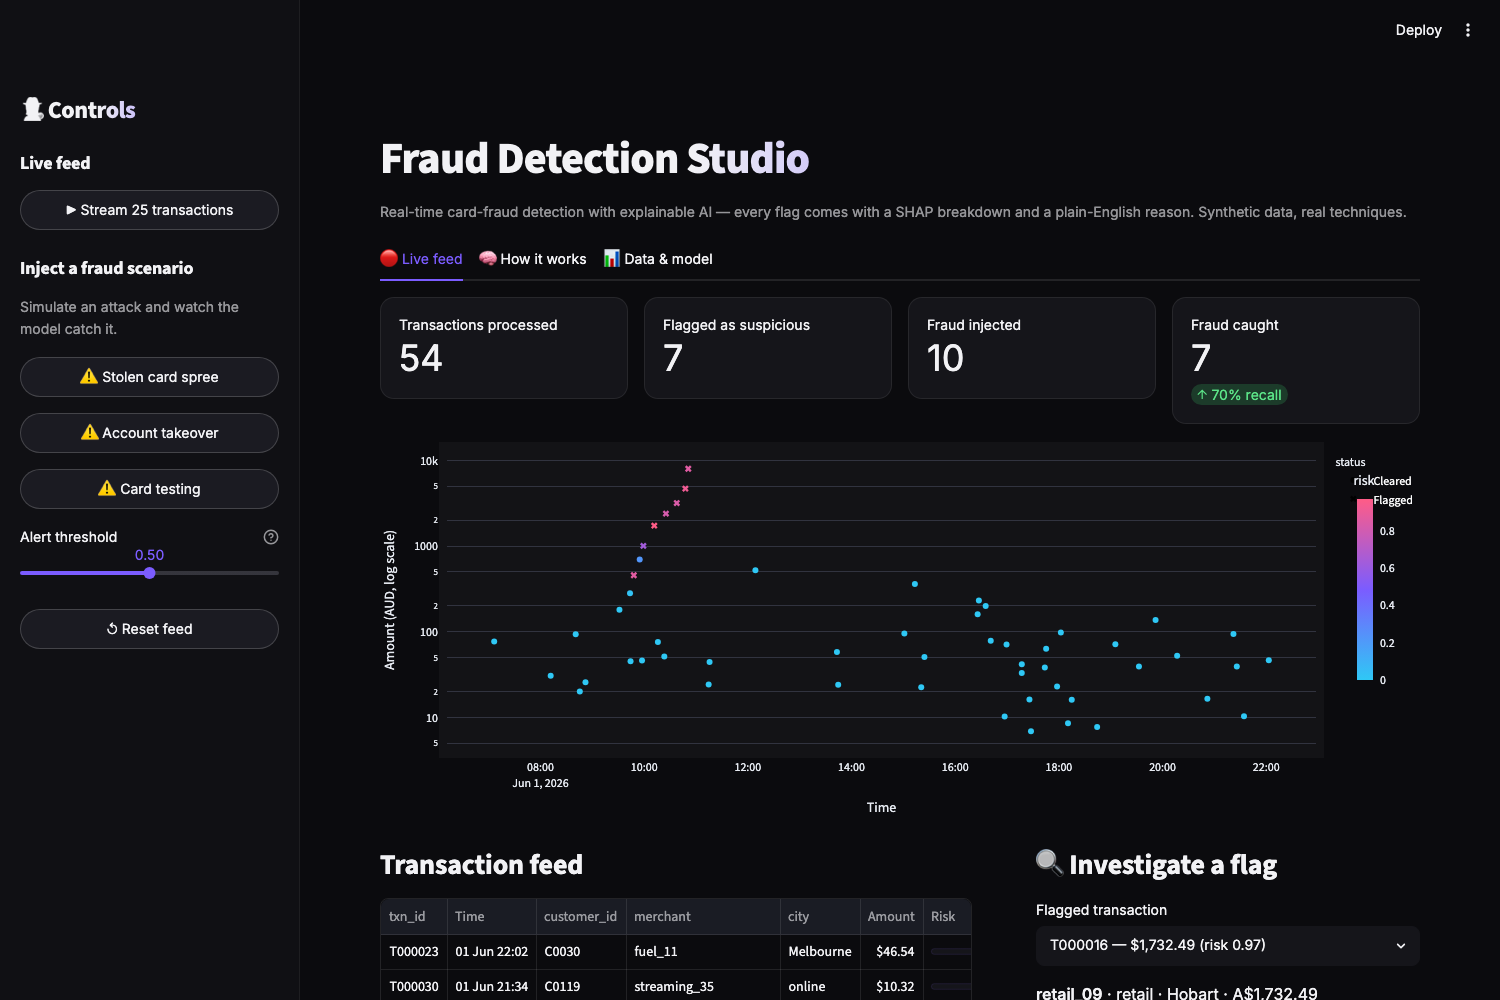
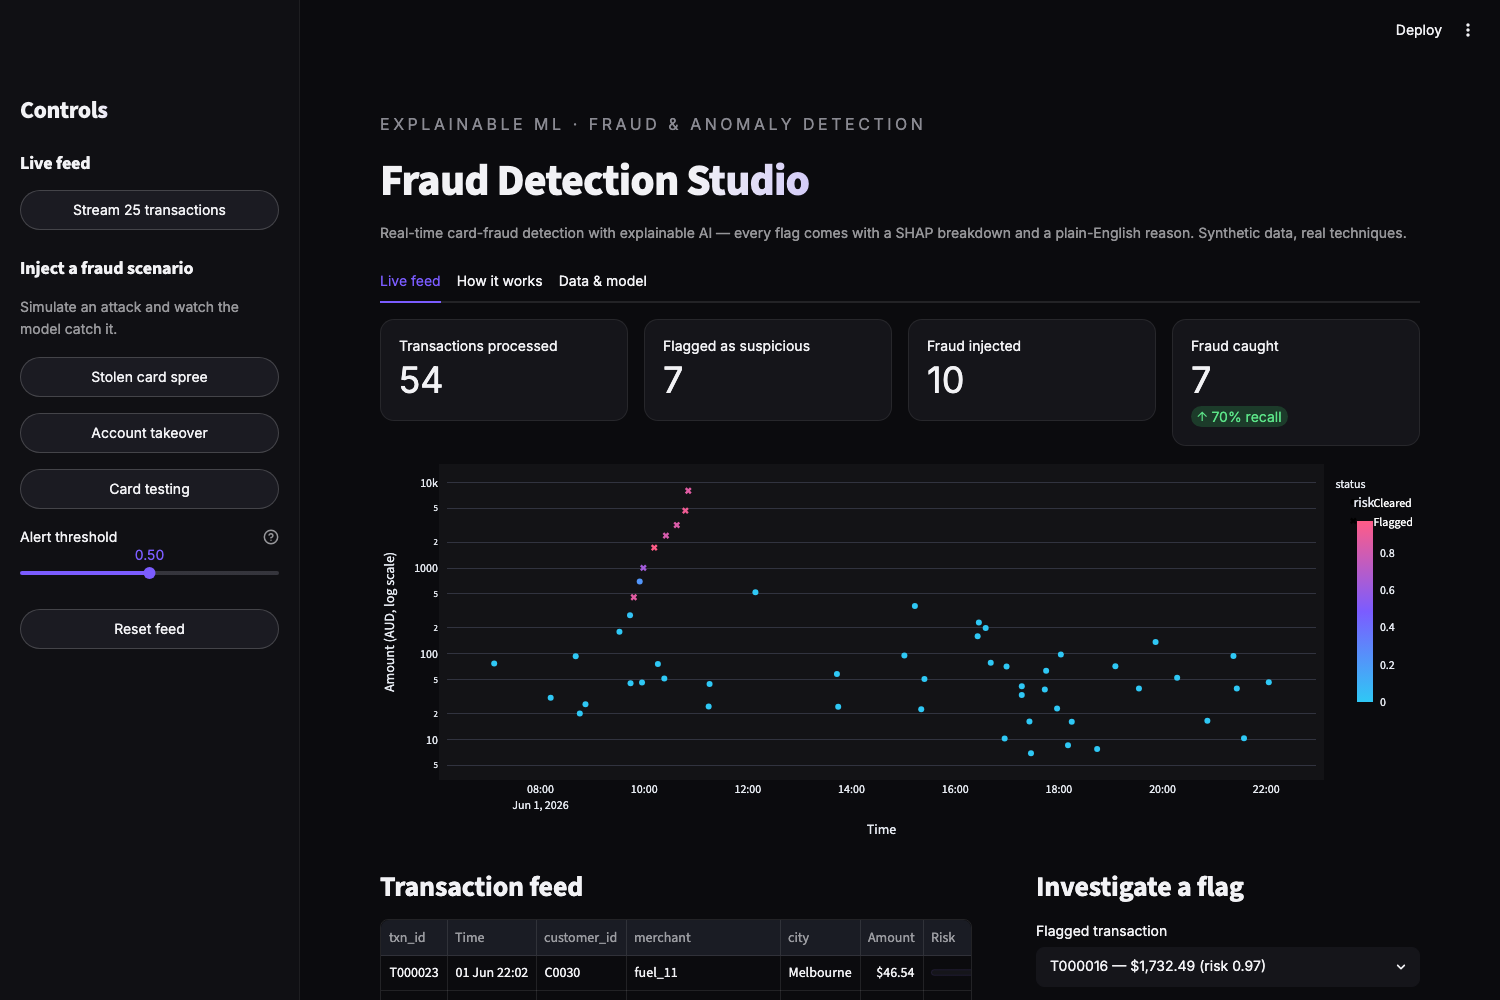
Polish: remove emojis, fix dark-mode contrast, add hiring-manager mapping

diff --git a/branding.py b/branding.py
@@ -45,7 +45,7 @@ h2, h3 { font-weight: 700 !important; letter-spacing: -0.01em; }
 }
 .stButton button:hover { border-color: #7b5cff; color: #fff; }
 
-[data-testid="stTabs"] button[role="tab"] { font-weight: 600; }
+[data-testid="stTabs"] button[role="tab"] { font-weight: 600; font-size: 0.95rem; }
 
 div[data-testid="stExpander"] {
   border: 1px solid rgba(255, 255, 255, 0.08);
@@ -59,6 +59,7 @@ div[data-testid="stExpander"] {
   font-size: 0.85rem;
 }
 .dl-footer a { color: #2fc8f5; text-decoration: none; }
+
 .dl-step {
   background: #15151a;
   border: 1px solid rgba(255, 255, 255, 0.08);
@@ -73,6 +74,36 @@ div[data-testid="stExpander"] {
   background: linear-gradient(92deg, #7b5cff, #2fc8f5);
   color: white; font-weight: 700; margin-bottom: 8px; font-size: 0.85rem;
 }
+
+.reason {
+  padding: 9px 14px; margin: 7px 0;
+  border-left: 3px solid; border-radius: 0 10px 10px 0;
+  background: rgba(255, 255, 255, 0.03);
+  font-size: 0.95rem; color: #dcdce2;
+}
+.reason.neg { border-color: #ff5c5c; }
+.reason.pos { border-color: #21c98d; }
+.reason.tip { border-color: #2fc8f5; }
+
+.pill {
+  display: inline-block; padding: 8px 24px; border-radius: 999px;
+  font-weight: 800; letter-spacing: 0.05em; font-size: 1.2rem;
+}
+.pill.ok {
+  background: rgba(33, 201, 141, 0.14); color: #21c98d;
+  border: 1px solid rgba(33, 201, 141, 0.4);
+}
+.pill.no {
+  background: rgba(255, 92, 92, 0.12); color: #ff5c5c;
+  border: 1px solid rgba(255, 92, 92, 0.4);
+}
+
+.eyebrow {
+  text-transform: uppercase; letter-spacing: 0.22em;
+  font-size: 0.72rem; color: #8a8a92; margin-bottom: -4px;
+}
+
+table { font-size: 0.92rem; }
 </style>
 """
 
@@ -81,8 +112,27 @@ def inject():
     st.markdown(CSS, unsafe_allow_html=True)
 
 
+def eyebrow(text: str):
+    st.markdown(f'<p class="eyebrow">{text}</p>', unsafe_allow_html=True)
+
+
+def verdict_pill(approved: bool, label_ok: str = "Approved",
+                 label_no: str = "Declined"):
+    cls, label = ("ok", label_ok) if approved else ("no", label_no)
+    st.markdown(f'<span class="pill {cls}">{label}</span>', unsafe_allow_html=True)
+
+
+def reason(text: str, kind: str):
+    """kind: 'neg' (against), 'pos' (in favour), 'tip' (guidance)."""
+    st.markdown(f'<div class="reason {kind}">{text}</div>', unsafe_allow_html=True)
+
+
 def darken(fig):
-    """Restyle a matplotlib figure (e.g. SHAP plots) for the dark theme."""
+    """Restyle a matplotlib figure (e.g. SHAP plots) for the dark theme.
+
+    Any text darker than mid-grey is lifted to the ink colour so axis labels,
+    tick labels and SHAP annotations stay readable on the dark panel.
+    """
     fig.patch.set_facecolor(PANEL)
     for ax in fig.axes:
         ax.set_facecolor(PANEL)
@@ -94,7 +144,9 @@ def darken(fig):
         ax.title.set_color(INK)
     for text in fig.findobj(plt.Text):
         try:
-            if mcolors.to_hex(text.get_color()) == "#000000":
+            r, g, b = mcolors.to_rgb(text.get_color())
+            luminance = 0.299 * r + 0.587 * g + 0.114 * b
+            if luminance < 0.82:
                 text.set_color(INK)
         except (ValueError, TypeError):
             pass

diff --git a/app.py b/app.py
@@ -17,7 +17,7 @@ from model import explain_row, plain_english, score, train_model
 
 st.set_page_config(
     page_title="Fraud Detection Studio",
-    page_icon="🕵️",
+    page_icon=":material/policy:",
     layout="wide",
 )
 branding.inject()
@@ -52,30 +52,31 @@ feed: pd.DataFrame = st.session_state.feed
 # ---------------- sidebar ----------------
 
 with st.sidebar:
-    st.title("🕵️ Controls")
+    st.title("Controls")
 
     st.subheader("Live feed")
-    if st.button("▶ Stream 25 transactions", use_container_width=True):
+    if st.button("Stream 25 transactions", use_container_width=True):
         append_feed(st.session_state.sim.stream(25))
         st.rerun()
 
     st.subheader("Inject a fraud scenario")
     st.caption("Simulate an attack and watch the model catch it.")
     for key, label in SCENARIOS.items():
-        if st.button(f"⚠️ {label}", use_container_width=True):
+        if st.button(label, use_container_width=True):
             append_feed(st.session_state.sim.inject(key))
             st.rerun()
 
     threshold = st.slider("Alert threshold", 0.05, 0.95, 0.50, 0.05,
                           help="Transactions scoring above this are flagged.")
 
-    if st.button("↺ Reset feed", use_container_width=True):
+    if st.button("Reset feed", use_container_width=True):
         for k in ("sim", "feed"):
             st.session_state.pop(k, None)
         st.rerun()
 
 # ---------------- header & metrics ----------------
 
+branding.eyebrow("Explainable ML · Fraud & Anomaly Detection")
 st.title("Fraud Detection Studio")
 st.caption(
     "Real-time card-fraud detection with explainable AI — every flag comes with "
@@ -87,7 +88,7 @@ injected = feed[feed["is_fraud"] == 1]
 caught = injected[injected["risk"] >= threshold]
 
 tab_live, tab_how, tab_model = st.tabs(
-    ["🔴  Live feed", "🧠  How it works", "📊  Data & model"]
+    ["Live feed", "How it works", "Data & model"]
 )
 
 # ================= TAB 1: live feed =================
@@ -121,7 +122,8 @@ with tab_live:
     )
     fig.update_layout(margin=dict(l=0, r=0, t=10, b=0),
                       paper_bgcolor="rgba(0,0,0,0)",
-                      plot_bgcolor="rgba(255,255,255,0.03)")
+                      plot_bgcolor="rgba(255,255,255,0.03)",
+                      font={"color": "#e8e8ec"})
     st.plotly_chart(fig, use_container_width=True)
 
     left, right = st.columns([3, 2], gap="large")
@@ -147,7 +149,7 @@ with tab_live:
         )
 
     with right:
-        st.subheader("🔍 Investigate a flag")
+        st.subheader("Investigate a flag")
         if flagged.empty:
             st.info("No transactions above the threshold yet. "
                     "Inject a fraud scenario from the sidebar.")
@@ -163,7 +165,7 @@ with tab_live:
             )
             row = feed.loc[feed["txn_id"] == txn_id].iloc[0]
 
-            truth = "⚠️ injected fraud" if row["is_fraud"] else "legitimate (false positive)"
+            truth = "injected fraud" if row["is_fraud"] else "legitimate — a false positive"
             scenario = SCENARIOS.get(row["scenario"], "")
             st.markdown(
                 f"**{row['merchant']}** · {row['category']} · {row['city']} · "
@@ -175,9 +177,9 @@ with tab_live:
 
             explanation = explain_row(ART["explainer"], row)
 
-            st.markdown("**Why the model flagged it:**")
-            for reason in plain_english(explanation, row):
-                st.markdown(f"- {reason}")
+            st.markdown("**Why the model flagged it**")
+            for r in plain_english(explanation, row):
+                branding.reason(r, "neg")
 
             fig_w, ax = plt.subplots()
             shap.plots.waterfall(explanation, max_display=9, show=False)
@@ -225,8 +227,8 @@ with tab_how:
     plt.close("all")
 
     st.write("")
-    st.subheader("The three attack patterns — and how they're caught")
-    with st.expander("💳 Stolen card spree"):
+    st.subheader("The three attack patterns, and how they're caught")
+    with st.expander("Stolen card spree"):
         st.markdown(
             "A pickpocketed card gets maxed out fast: 6–10 card-present purchases "
             "within ~90 minutes, far from the victim's home city, at high-risk "
@@ -234,14 +236,14 @@ with tab_how:
             "amounts as the fraudster tests limits. **Caught by:** velocity + "
             "geo-distance + merchant risk + amount-vs-baseline all firing at once."
         )
-    with st.expander("🌙 Account takeover"):
+    with st.expander("Account takeover"):
         st.markdown(
             "Stolen credentials are used from the attacker's location: late-night "
             "card-not-present purchases at merchants the customer has never used, "
             "in amounts far above their baseline. **Caught by:** night-time flag + "
             "online flag + first-time merchant + amount ratio."
         )
-    with st.expander("🔬 Card testing"):
+    with st.expander("Card testing"):
         st.markdown(
             "Before selling card numbers, fraudsters validate them with rapid "
             "micro-charges ($0.50–$3) at online merchants — then cash out with "
@@ -258,6 +260,20 @@ with tab_how:
             "features, calibrated alerting, explainable triage — not the headline "
             "number. Knowing why your metric is too good is part of the job."
         )
+
+    st.write("")
+    st.subheader("Mapped to a hiring manager's checklist")
+    st.markdown(
+        """
+| If your job description says… | This project demonstrates it by… |
+|---|---|
+| Detect fraud / financial crime in transaction data | Behavioural feature engineering — velocity, geo-distance, deviation from personal baseline — across three realistic attack patterns |
+| Real-time risk scoring | Streaming transaction scoring with a tunable alert threshold and live recall measurement |
+| Support investigators and alert triage | Every alert carries exact SHAP attributions translated into plain-English reasons, with ground truth and false positives shown honestly |
+| Rigorous model evaluation | Hard negatives engineered into training, PR-AUC alongside ROC-AUC, and a documented explanation of why the synthetic metric overstates reality |
+| Production engineering discipline | Identical feature pipeline for training and live scoring, reproducible simulator, version-controlled and publicly deployed |
+"""
+    )
 
 # ================= TAB 3: data & model =================
 

diff --git a/README.md b/README.md
@@ -1,8 +1,8 @@
-# 🕵️ Fraud Detection Studio
+# Fraud Detection Studio
 
 **Real-time card-fraud detection with explainable AI — every flag comes with a SHAP breakdown and a plain-English reason.**
 
-**▶ Live demo: https://drishtant-fraud-studio.streamlit.app**
+**Live demo: https://drishtant-fraud-studio.streamlit.app**
 
 An interactive demo of production fraud-detection techniques: a live synthetic transaction feed is scored by an XGBoost classifier, and every alert can be investigated down to the exact features that drove the decision. Inject classic fraud attacks and watch the model catch them.
 